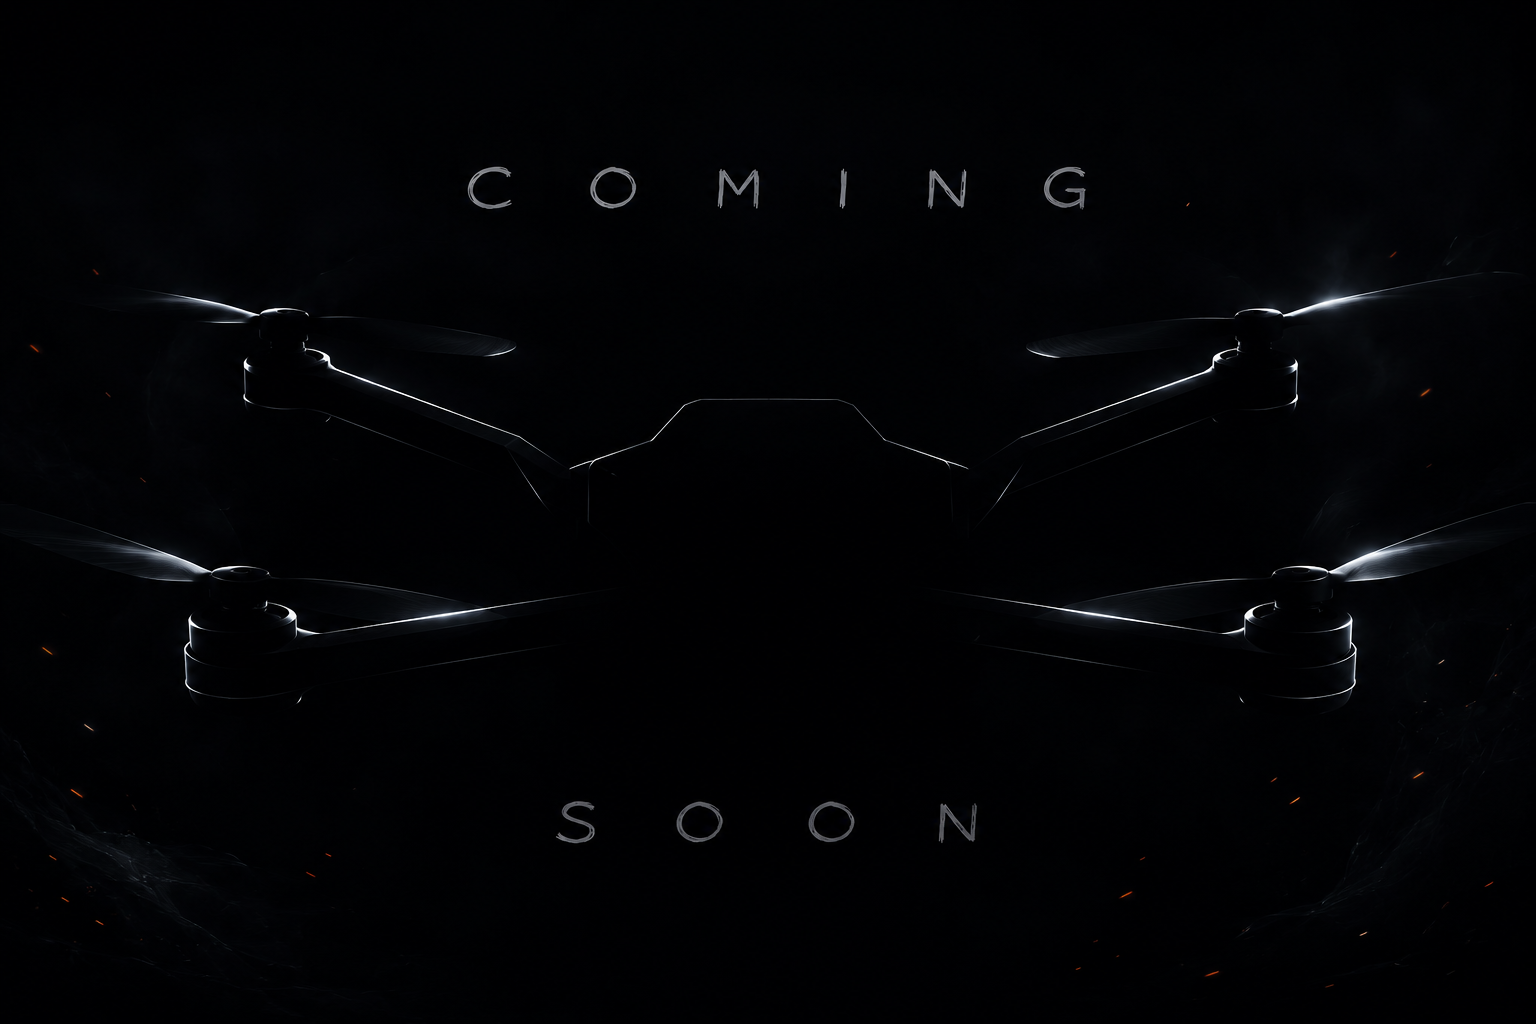
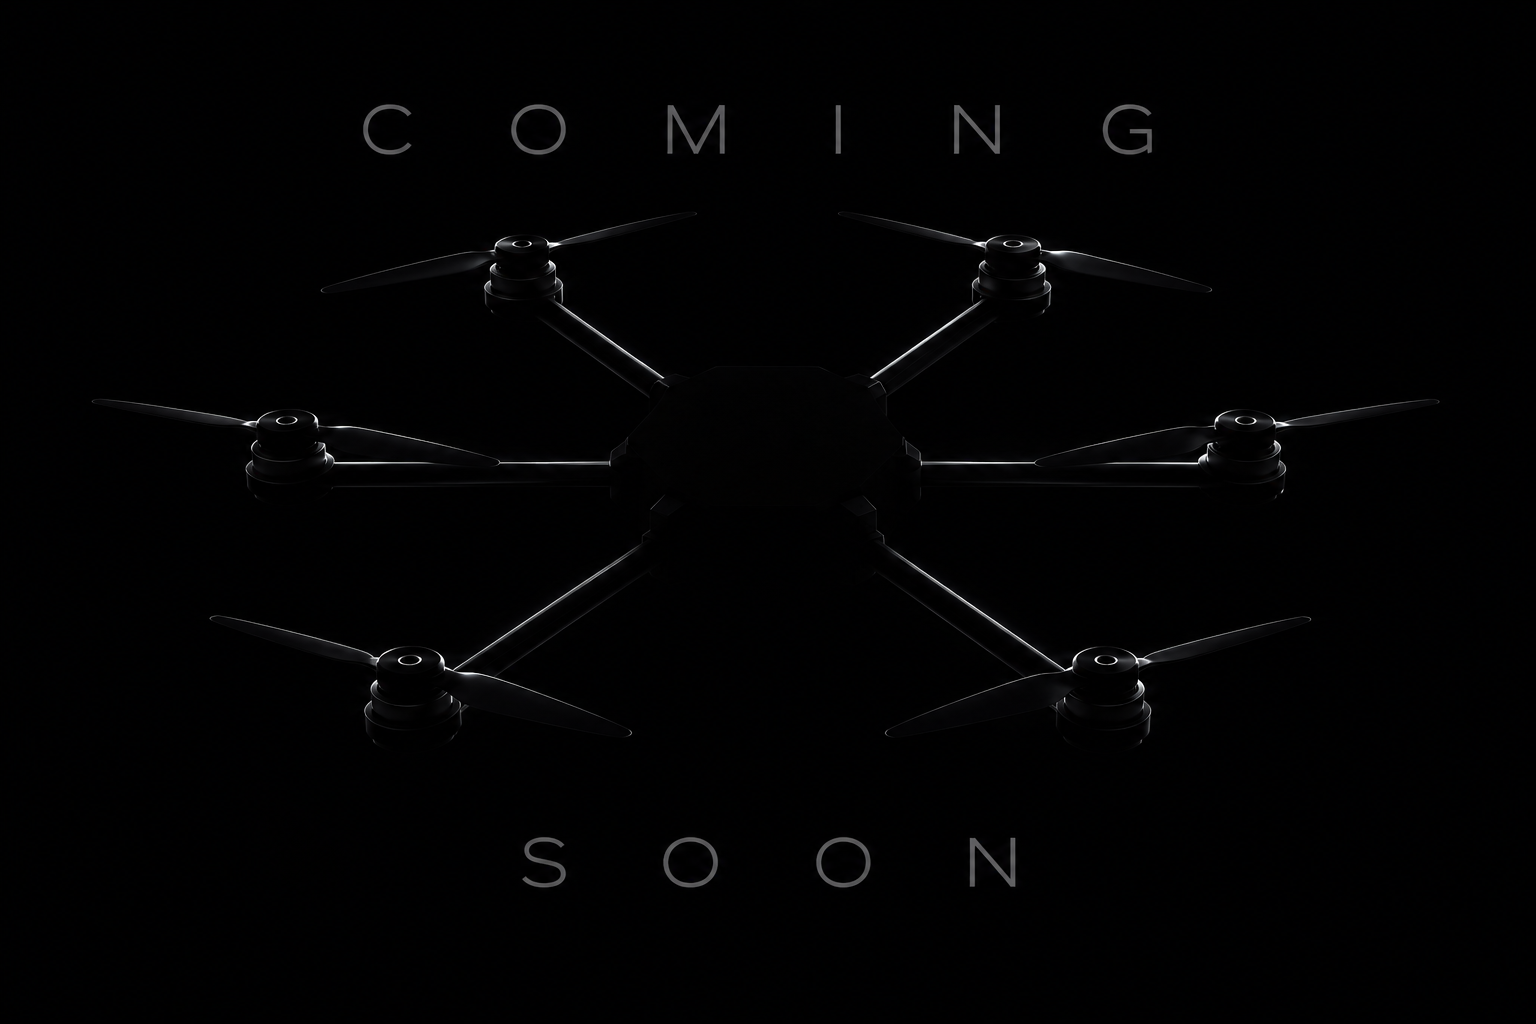
fix: contain slide images to avoid zooming, remove blue chevron highlights, and format about page image to medium contain size

diff --git a/src/components/HeroSlideshow.tsx b/src/components/HeroSlideshow.tsx
@@ -63,7 +63,7 @@ export default function HeroSlideshow() {
 
   return (
     <div 
-      className="relative w-full h-[60vh] md:h-[75vh] lg:h-[85vh] overflow-hidden bg-gray-900 group"
+      className="relative w-full h-[60vh] md:h-[75vh] lg:h-[85vh] overflow-hidden bg-black select-none group"
       onTouchStart={handleTouchStart}
       onTouchEnd={handleTouchEnd}
     >
@@ -75,7 +75,7 @@ export default function HeroSlideshow() {
             initial={{ opacity: 0 }}
             animate={{ opacity: 1 }}
             exit={{ opacity: 0 }}
-            transition={{ duration: 0.8, ease: "easeInOut" }}
+            transition={{ duration: 0.15, ease: "linear" }}
             className="absolute inset-0"
           >
             <Image
@@ -83,11 +83,11 @@ export default function HeroSlideshow() {
               alt={slides[currentIndex].alt}
               fill
               priority
-              className="object-cover object-top"
+              className="object-contain"
               sizes="100vw"
             />
             {/* Soft Ambient Overlay */}
-            <div className="absolute inset-0 bg-black/10" />
+            <div className="absolute inset-0 bg-black/5" />
           </motion.div>
         </AnimatePresence>
       </div>
@@ -95,29 +95,29 @@ export default function HeroSlideshow() {
       {/* Edge Navigation Buttons (Visible by default) */}
       {/* Left Chevron Button */}
       <button
-        className="absolute left-6 top-1/2 -translate-y-1/2 z-30 p-3 bg-black/20 hover:bg-black/40 active:scale-95 text-white/80 hover:text-white border border-white/10 rounded-full shadow-lg transition-all"
+        className="absolute left-6 top-1/2 -translate-y-1/2 z-30 p-3 bg-black/20 hover:bg-black/40 active:scale-95 text-white/80 hover:text-white border border-white/10 rounded-full shadow-lg transition-all outline-none focus:outline-none focus:ring-0 active:outline-none select-none"
         onClick={prevSlide}
         aria-label="Previous Slide"
       >
-        <ChevronLeft size={24} />
+        <ChevronLeft size={24} className="outline-none select-none" />
       </button>
 
       {/* Right Chevron Button */}
       <button
-        className="absolute right-6 top-1/2 -translate-y-1/2 z-30 p-3 bg-black/20 hover:bg-black/40 active:scale-95 text-white/80 hover:text-white border border-white/10 rounded-full shadow-lg transition-all"
+        className="absolute right-6 top-1/2 -translate-y-1/2 z-30 p-3 bg-black/20 hover:bg-black/40 active:scale-95 text-white/80 hover:text-white border border-white/10 rounded-full shadow-lg transition-all outline-none focus:outline-none focus:ring-0 active:outline-none select-none"
         onClick={nextSlide}
         aria-label="Next Slide"
       >
-        <ChevronRight size={24} />
+        <ChevronRight size={24} className="outline-none select-none" />
       </button>
 
       {/* Indicator Dots */}
-      <div className="absolute bottom-8 left-1/2 -translate-x-1/2 z-30 flex gap-2.5">
+      <div className="absolute bottom-8 left-1/2 -translate-x-1/2 z-30 flex gap-2.5 select-none">
         {slides.map((_, idx) => (
           <button
             key={idx}
             onClick={() => setCurrentIndex(idx)}
-            className={`w-2.5 h-2.5 rounded-full transition-all duration-300 ${
+            className={`w-2.5 h-2.5 rounded-full transition-all duration-300 outline-none focus:outline-none select-none ${
               currentIndex === idx ? "bg-white w-6" : "bg-white/40 hover:bg-white/60"
             }`}
             aria-label={`Go to slide ${idx + 1}`}

diff --git a/src/app/about/page.tsx b/src/app/about/page.tsx
@@ -27,14 +27,14 @@ export default function AboutPage() {
         </div>
         
         {/* Main Hero Drone Image placed right after Overview section, compact and premium */}
-        <div className="w-full relative h-[300px] md:h-[500px] lg:h-[580px] overflow-hidden rounded-3xl mt-6 mb-16 border border-border shadow-sm">
+        <div className="max-w-4xl mx-auto w-full relative h-[250px] md:h-[380px] lg:h-[450px] overflow-hidden rounded-2xl mt-6 mb-16 bg-[#fafafc] border border-border/85 shadow-sm flex items-center justify-center">
           <Image
             src="/hero_drone_bg.png"
             alt="MIVA Advanced Aerospace Drone"
             fill
             priority
-            className="object-cover object-top"
-            sizes="100vw"
+            className="object-contain"
+            sizes="(max-width: 768px) 100vw, 80vw"
           />
         </div>
 